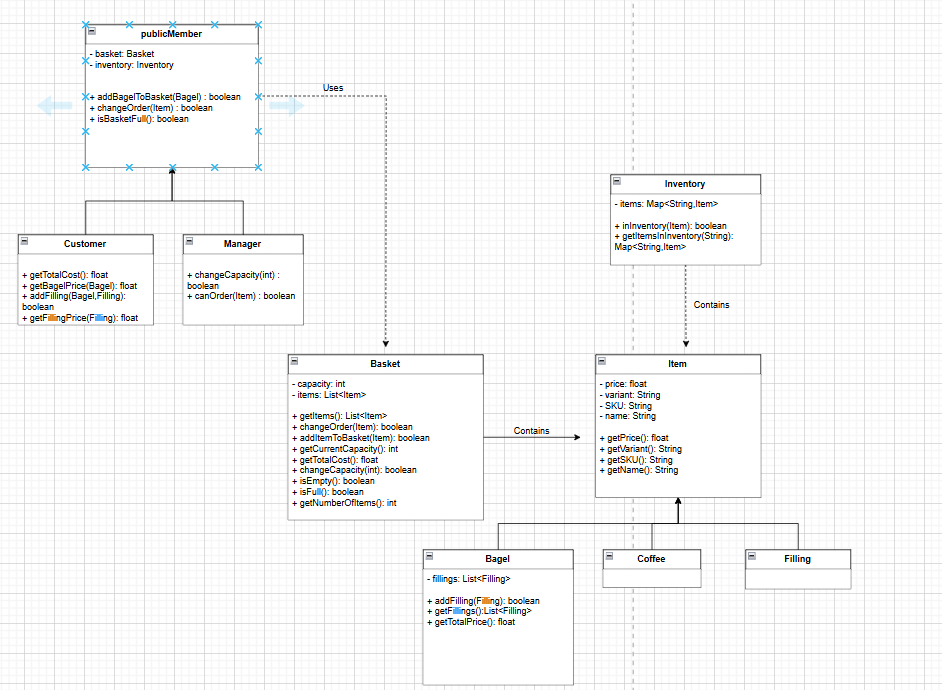
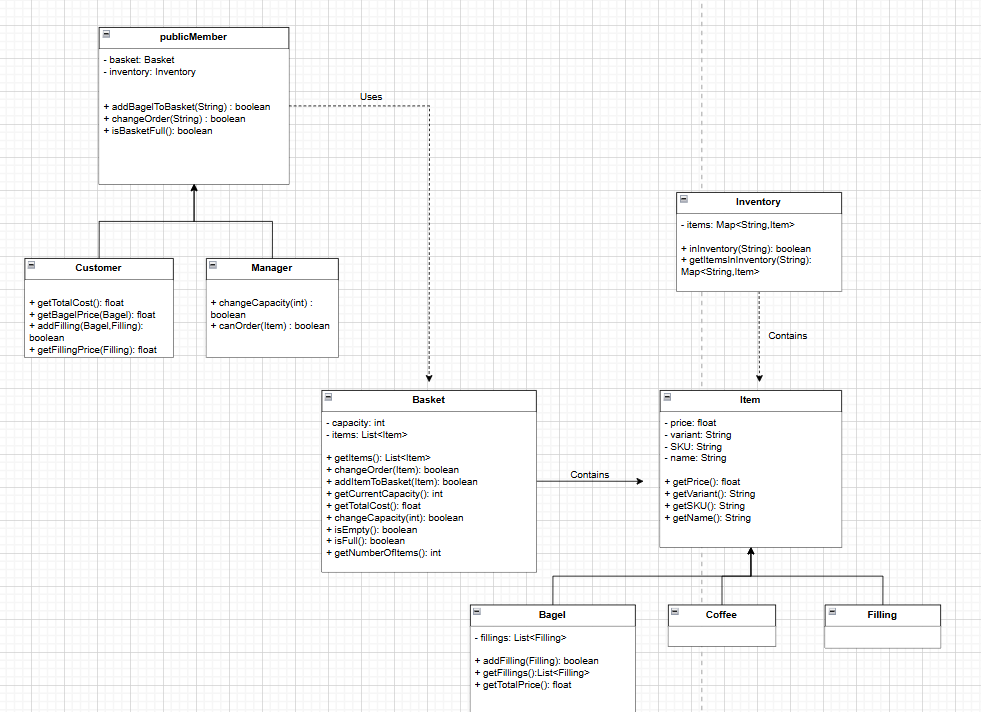
publicMemberTest

diff --git a/src/test/java/com/booleanuk/core/publicMemberTest.java b/src/test/java/com/booleanuk/core/publicMemberTest.java
@@ -1,0 +1,80 @@
+package com.booleanuk.core;
+
+
+import org.junit.jupiter.api.Assertions;
+import org.junit.jupiter.api.Test;
+
+public class publicMemberTest {
+
+    @Test
+    public void addBagelToBasketOk(){
+        Basket basket = new Basket();
+        publicMember member = new publicMember(basket);
+
+        Assertions.assertEquals(true, member.addBagelToBasket("Onion"));
+        Assertions.assertEquals(true, member.addBagelToBasket("Plain"));
+        Assertions.assertEquals(true, member.addBagelToBasket("Everything"));
+        Assertions.assertEquals(true, member.addBagelToBasket("Sesame"));
+        Assertions.assertEquals(true,member.addBagelToBasket("OnIOn"));
+        Assertions.assertEquals(true,member.addBagelToBasket("SESAME"));
+
+
+    }
+
+    @Test
+    public void addBagelToBasketNotOk(){
+        Basket basket = new Basket();
+        publicMember member = new publicMember(basket);
+
+        Assertions.assertEquals(false, member.addBagelToBasket(" "));
+        Assertions.assertEquals(false, member.addBagelToBasket("Sesamee"));
+        Assertions.assertEquals(false, member.addBagelToBasket("Cheese"));
+        Assertions.assertEquals(false, member.addBagelToBasket("Egg"));
+    }
+
+    @Test
+    public void changeOrderOK(){
+        Basket basket = new Basket();
+        publicMember member = new publicMember(basket);
+        member.addBagelToBasket("Sesame");
+
+        Assertions.assertEquals(true, member.changeOrder("Sesame"));
+
+    }
+
+    @Test
+    public void changeOrderNotOK(){
+        Basket basket = new Basket();
+        publicMember member = new publicMember(basket);
+        member.addBagelToBasket("Sesame");
+
+        Assertions.assertEquals(false, member.changeOrder("Onion"));
+
+    }
+
+    @Test
+    public void isBasketFullTrue(){
+        Basket basket = new Basket();
+        publicMember member = new publicMember(basket);
+        member.addBagelToBasket("Sesame");
+        member.addBagelToBasket("Sesame");
+        member.addBagelToBasket("Sesame");
+        member.addBagelToBasket("Sesame");
+        member.addBagelToBasket("Sesame");
+
+        Assertions.assertEquals(true, member.isBasketFull());
+    }
+
+    @Test
+    public void isBasketFullFalse(){
+        Basket basket = new Basket();
+        publicMember member = new publicMember(basket);
+        member.addBagelToBasket("Sesame");
+        member.addBagelToBasket("Sesame");
+        member.addBagelToBasket("Sesame");
+
+        Assertions.assertEquals(false, member.isBasketFull());
+    }
+
+
+}

diff --git a/src/main/java/com/booleanuk/core/publicMember.java b/src/main/java/com/booleanuk/core/publicMember.java
@@ -1,0 +1,21 @@
+package com.booleanuk.core;
+
+public class publicMember {
+    Basket basket;
+
+    public publicMember(Basket basket){
+        this.basket = basket;
+    }
+
+    public Boolean addBagelToBasket(String variant){
+        return null;
+    }
+
+    public Boolean changeOrder(String sesame) {
+        return null;
+    }
+
+    public Boolean isBasketFull() {
+        return null;
+    }
+}

diff --git a/src/main/java/com/booleanuk/core/Inventory.java b/src/main/java/com/booleanuk/core/Inventory.java
@@ -1,0 +1,4 @@
+package com.booleanuk.core;
+
+public class Inventory {
+}

diff --git a/src/main/java/com/booleanuk/core/Customer.java b/src/main/java/com/booleanuk/core/Customer.java
@@ -1,0 +1,4 @@
+package com.booleanuk.core;
+
+public class Customer {
+}

diff --git a/src/main/java/com/booleanuk/core/Filling.java b/src/main/java/com/booleanuk/core/Filling.java
@@ -1,0 +1,4 @@
+package com.booleanuk.core;
+
+public class Filling {
+}

diff --git a/src/main/java/com/booleanuk/core/Manager.java b/src/main/java/com/booleanuk/core/Manager.java
@@ -1,0 +1,4 @@
+package com.booleanuk.core;
+
+public class Manager {
+}

diff --git a/src/main/java/com/booleanuk/core/Basket.java b/src/main/java/com/booleanuk/core/Basket.java
@@ -1,0 +1,4 @@
+package com.booleanuk.core;
+
+public class Basket {
+}

diff --git a/src/main/java/com/booleanuk/core/Coffee.java b/src/main/java/com/booleanuk/core/Coffee.java
@@ -1,0 +1,4 @@
+package com.booleanuk.core;
+
+public class Coffee {
+}

diff --git a/src/main/java/com/booleanuk/core/Bagel.java b/src/main/java/com/booleanuk/core/Bagel.java
@@ -1,0 +1,4 @@
+package com.booleanuk.core;
+
+public class Bagel {
+}

diff --git a/src/main/java/com/booleanuk/core/Item.java b/src/main/java/com/booleanuk/core/Item.java
@@ -1,0 +1,4 @@
+package com.booleanuk.core;
+
+public class Item {
+}

diff --git a/src/domain-model.md b/src/domain-model.md
@@ -18,14 +18,14 @@ As a customer:
 
 | Classes           | Instance variable              | Methods                                          | Scenario                                         | Output                                         |
 |-------------------|--------------------------------|--------------------------------------------------|--------------------------------------------------|------------------------------------------------|
-| publicMember      | -Basket basket                 | boolean addBagelToBasket(Bagel bagel)            | if basket is not full                            | add Bagel to Basket and return true            |
+| publicMember      | -Basket basket                 | boolean addBagelToBasket(String variant)         | if basket is not full and variant in Inventory   | add Bagel to Basket and return true            |
 |                   | -Inventory inventory           |                                                  | if basket is full                                | return false                                   |
-|                   |                                | boolean changeOrder(Item item)                   | if item in basket                                | remove item from Basket and return true        |
+|                   |                                | boolean changeOrder(String item)                 | if item in basket                                | remove item from Basket and return true        |
 |                   |                                |                                                  | if item not in basket                            | return false                                   |
 |                   |                                | boolean isBasketFull()                           | if basket is full                                | return true                                    |
 |                   |                                |                                                  | if basket is not full                            | return false                                   |
 | ----------------- | -----------------------------  | ----------------------------------------------   | ---------------------------------------------    | --------------------------------------------   |
-| Manager           | Inherits basket and inventory  | boolean canOrder(Item item)                      | if item in Inventory                             | return true                                    |
+| Manager           | Inherits basket and inventory  | boolean canOrder(String item)                    | if item in Inventory                             | return true                                    |
 |                   | from public member             |                                                  | if item not in Inventory                         | return false                                   | 
 |                   |                                | boolean changeCapacity(int capacity)             | if capacity not negative                         | change basket capacity and return true         |
 |                   |                                |                                                  | if capacity negative                             | return false                                   |
